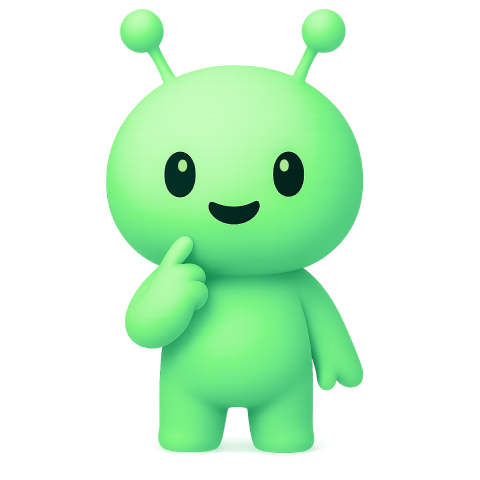
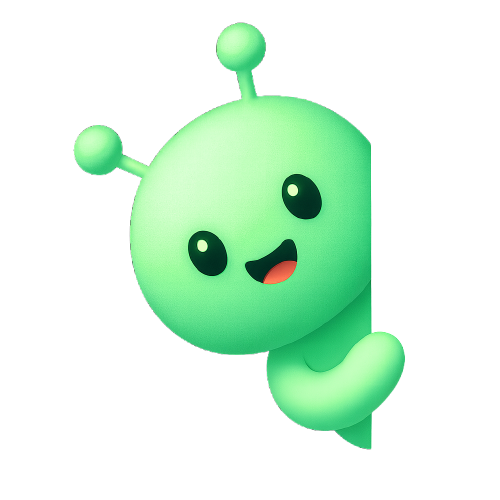
feat: 목표생성 퍼널페이지 디자인 레이아웃 변경

diff --git a/src/composite/create-goal/createGoalFormFunnel/components/Step3Duration.tsx b/src/composite/create-goal/createGoalFormFunnel/components/Step3Duration.tsx
@@ -52,54 +52,56 @@ export const Step3Duration = ({ onNext }: Step3DurationProps) => {
   return (
     <div className="flex flex-col gap-8">
       <div>
-        <GuideMessage text={`몇 주 동안 이 목표에\n도전해볼까?`} highlight={['몇 주 동안']} status="curious" />
-        <div className="mb-12">
-          <p className="label-1-bold text-white mb-3">기간 선택</p>
-          <div className="flex gap-2">
-            <Button
-              size="lg"
-              text="4주"
-              variant="secondary"
-              type="button"
-              className={`flex-1 ${selectedDuration === 4 && 'bg-gray-100! text-gray-900!'}`}
-              onClick={() => handleDurationClick(4)}
-            />
-            <Button
-              size="lg"
-              text="8주"
-              variant="secondary"
-              type="button"
-              className={`flex-1 ${selectedDuration === 8 && 'bg-gray-100! text-gray-900!'}`}
-              onClick={() => handleDurationClick(8)}
-            />
-            <Button
-              size="lg"
-              text="12주"
-              variant="secondary"
-              type="button"
-              className={`flex-1 ${selectedDuration === 12 && 'bg-gray-100! text-gray-900!'}`}
-              onClick={() => handleDurationClick(12)}
-            />
+        <GuideMessage text={`몇 주 동안 이 목표에\n도전해볼까?`} highlight={['몇 주 동안']} status="happy" />
+        <div className="px-[20px]">
+          <div className="mb-12">
+            <p className="label-1-bold text-white mb-3">기간 선택</p>
+            <div className="flex gap-2">
+              <Button
+                size="lg"
+                text="4주"
+                variant="secondary"
+                type="button"
+                className={`flex-1 ${selectedDuration === 4 && 'bg-gray-100! text-gray-900!'}`}
+                onClick={() => handleDurationClick(4)}
+              />
+              <Button
+                size="lg"
+                text="8주"
+                variant="secondary"
+                type="button"
+                className={`flex-1 ${selectedDuration === 8 && 'bg-gray-100! text-gray-900!'}`}
+                onClick={() => handleDurationClick(8)}
+              />
+              <Button
+                size="lg"
+                text="12주"
+                variant="secondary"
+                type="button"
+                className={`flex-1 ${selectedDuration === 12 && 'bg-gray-100! text-gray-900!'}`}
+                onClick={() => handleDurationClick(12)}
+              />
+            </div>
           </div>
-        </div>
-        <div>
-          <p className="label-1-bold text-white mb-3">시작 날짜</p>
-          <CreateGoalFormElement.DurationDate weeks={selectedDuration} />
-          <p className="mt-2 text-[14px] text-neutral-400 flex items-center gap-1">
-            <svg
-              width="16"
-              height="16"
-              viewBox="0 0 16 16"
-              fill="none"
-              xmlns="http://www.w3.org/2000/svg"
-              className="flex-shrink-0"
-            >
-              <circle cx="8" cy="8" r="7" stroke="#9CA3AF" strokeWidth="1.5" />
-              <path d="M8 5V8" stroke="#9CA3AF" strokeWidth="1.5" strokeLinecap="round" />
-              <circle cx="8" cy="11" r="0.5" fill="#9CA3AF" />
-            </svg>
-            <span>목표 시작일과 상관없이, 목표 종료일은 일요일에 끝나요.</span>
-          </p>
+          <div>
+            <p className="label-1-bold text-white mb-3">시작 날짜</p>
+            <CreateGoalFormElement.DurationDate weeks={selectedDuration} />
+            <p className="mt-2 text-[14px] text-neutral-400 flex items-center gap-1">
+              <svg
+                width="16"
+                height="16"
+                viewBox="0 0 16 16"
+                fill="none"
+                xmlns="http://www.w3.org/2000/svg"
+                className="flex-shrink-0"
+              >
+                <circle cx="8" cy="8" r="7" stroke="#9CA3AF" strokeWidth="1.5" />
+                <path d="M8 5V8" stroke="#9CA3AF" strokeWidth="1.5" strokeLinecap="round" />
+                <circle cx="8" cy="11" r="0.5" fill="#9CA3AF" />
+              </svg>
+              <span>목표 시작일과 상관없이, 목표 종료일은 일요일에 끝나요.</span>
+            </p>
+          </div>
         </div>
       </div>
 

diff --git a/src/composite/create-goal/createGoalFormFunnel/components/GuideMessage.tsx b/src/composite/create-goal/createGoalFormFunnel/components/GuideMessage.tsx
@@ -1,6 +1,6 @@
 import Image from 'next/image';
 
-type GrorongStatus = 'welcome' | 'excited' | 'curious';
+type GrorongStatus = 'default' | 'exciting' | 'happy';
 
 interface GuideMessageProps {
   text: string;
@@ -8,7 +8,7 @@ interface GuideMessageProps {
   status?: GrorongStatus;
 }
 
-export const GuideMessage = ({ text, highlight, status = 'welcome' }: GuideMessageProps) => {
+export const GuideMessage = ({ text, highlight, status = 'default' }: GuideMessageProps) => {
   const getHighlightedText = () => {
     const lines = text.split('\n');
 
@@ -35,7 +35,7 @@ export const GuideMessage = ({ text, highlight, status = 'welcome' }: GuideMessa
 
             if (isHighlighted) {
               return (
-                <span key={index} className="font-bold">
+                <span key={index} className="font-bold text-[#3AEE49]">
                   {part}
                 </span>
               );
@@ -49,12 +49,17 @@ export const GuideMessage = ({ text, highlight, status = 'welcome' }: GuideMessa
   };
 
   return (
-    <div className="flex items-center gap-2 py-6">
+    <div className="flex justify-end items-center gap-2 py-6">
+      <div className="inline-block">
+        <div className="bg-[#2E2F33] rounded-t-2xl rounded-r-2xl rounded-bl-2xl rounded-br-none px-[28px] py-[20px] shadow-md inline-block">
+          <p className="text-white text-[18px] font-bold leading-[1.445]">{getHighlightedText()}</p>
+        </div>
+      </div>
       <div className="relative flex-shrink-0">
         {/* Mobile */}
         <div className="block sm:hidden">
           <Image
-            src={`/image/grorong-${status}-s.png`}
+            src={`/image/grorong-right-${status}.png`}
             alt="그로롱"
             width={100}
             height={100}
@@ -64,18 +69,12 @@ export const GuideMessage = ({ text, highlight, status = 'welcome' }: GuideMessa
         {/* Desktop */}
         <div className="hidden sm:block">
           <Image
-            src={`/image/grorong-${status}-m.png`}
+            src={`/image/grorong-right-${status}.png`}
             alt="그로롱"
-            width={120}
-            height={120}
+            width={132}
+            height={132}
             className="object-contain"
           />
-        </div>
-      </div>
-
-      <div className="inline-block">
-        <div className="bg-[#2C2C2E] rounded-t-2xl rounded-r-2xl rounded-bl-none rounded-br-2xl px-4 py-3 shadow-md inline-block">
-          <p className="text-white text-[16px] leading-relaxed">{getHighlightedText()}</p>
         </div>
       </div>
     </div>

diff --git a/src/composite/create-goal/createGoalFormFunnel/components/Step1GoalCategory.tsx b/src/composite/create-goal/createGoalFormFunnel/components/Step1GoalCategory.tsx
@@ -32,16 +32,18 @@ export const Step1GoalCategory = ({ onNext }: Step1GoalCategoryProps) => {
   return (
     <div className="flex flex-col gap-8">
       <div>
-        <GuideMessage text="어떤 분야에 집중하고 싶어?" highlight={['분야']} status="curious" />
-        <div className="grid grid-cols-1 sm:grid-cols-3 gap-3 sm:gap-4">
+        <GuideMessage text="어떤 분야에 집중하고 싶어?" highlight={['분야']} status="default" />
+        <div className="flex flex-col gap-3 px-[20px]">
           {GOAL_CATEGORIES.map(category => (
             <Button
               key={category.id}
-              size="lg"
+              size="xl"
               text={category.label}
-              variant={selectedCategory === category.id ? 'primary' : 'secondary'}
+              variant="secondary"
               onClick={e => handleCategorySelect(e, category.id)}
-              className="w-full"
+              className={`w-full ${
+                selectedCategory === category.id ? 'border-[#34C759] bg-[rgba(52,199,89,0.08)]' : ''
+              }`}
             />
           ))}
         </div>

diff --git a/src/composite/create-goal/createGoalFormFunnel/components/Step2GoalName.tsx b/src/composite/create-goal/createGoalFormFunnel/components/Step2GoalName.tsx
@@ -37,11 +37,13 @@ export const Step2GoalName = ({ onNext }: Step2GoalNameProps) => {
   return (
     <div className="flex flex-col gap-8">
       <div>
-        <GuideMessage text="어떤 목표를 가지고 있어?" highlight={['목표']} status="curious" />
-        <CreateGoalFormElement.Name />
-        {selectedCategory && CATEGORY_EXAMPLES[selectedCategory] && (
-          <p className="mt-2 text-[14px] text-neutral-400">ex. {CATEGORY_EXAMPLES[selectedCategory]}</p>
-        )}
+        <GuideMessage text="어떤 목표를 가지고 있어?" highlight={['목표']} status="exciting" />
+        <div className="px-[20px]">
+          <CreateGoalFormElement.Name />
+          {selectedCategory && CATEGORY_EXAMPLES[selectedCategory] && (
+            <p className="mt-2 text-[14px] text-neutral-400">ex. {CATEGORY_EXAMPLES[selectedCategory]}</p>
+          )}
+        </div>
       </div>
       <FunnelNextButton disabled={!isStepValid} onClick={handleNext} />
     </div>

diff --git a/src/composite/create-goal/createGoalFormFunnel/components/Step4Summary.tsx b/src/composite/create-goal/createGoalFormFunnel/components/Step4Summary.tsx
@@ -30,8 +30,8 @@ export const Step4Summary = ({}: Step4SummaryProps) => {
   return (
     <div className="flex flex-col">
       <div className="flex flex-col gap-8">
-        <GuideMessage status="excited" text={'수고했어 :)\n마지막으로 목표를 확인해보자!'} highlight={['목표']} />
-        <div className="bg-[#0F0F10] rounded-lg p-6 space-y-6">
+        <GuideMessage status="default" text={'수고했어 :)\n마지막으로 목표를 확인해보자!'} highlight={['목표']} />
+        <div className="bg-[#0F0F10] mt-[20px] rounded-lg p-6 space-y-6">
           <div>
             <h3 className="body-1-bold text-white mb-4">{formValues.name || '-'}</h3>
           </div>

diff --git a/src/composite/create-goal/createGoalFormFunnel/CreateGoalFormFunnel.tsx b/src/composite/create-goal/createGoalFormFunnel/CreateGoalFormFunnel.tsx
@@ -33,7 +33,7 @@ export const CreateGoalFormFunnel = () => {
     <CreateGoalFormElement.Provider>
       <div className="flex flex-1 flex-col">
         <FunnelHeader currentStep={currentStepIndex} totalSteps={totalSteps} onBack={handleBack} />
-        <div className="flex flex-1 flex-col max-sm:px-[20px] w-full mx-auto">
+        <div className="flex flex-1 flex-col w-full mx-auto">
           <CreateGoalFormElement.FormContainer>
             {currentStep === 'onboarding' && <Step0Onboarding onNext={() => handleNext('goal-category')} />}
             {currentStep === 'goal-category' && <Step1GoalCategory onNext={() => handleNext('goal-name')} />}
